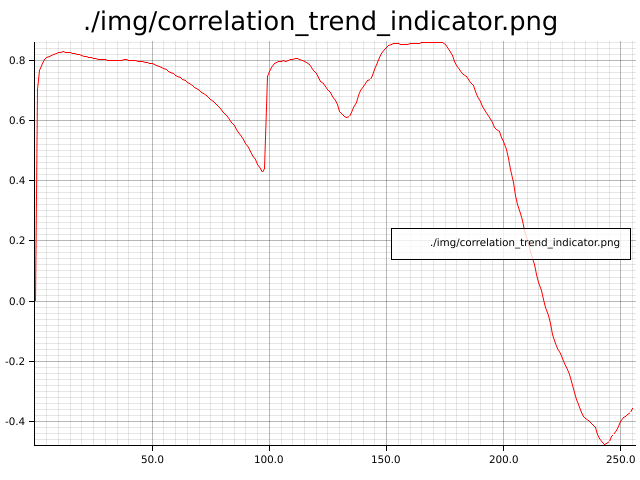
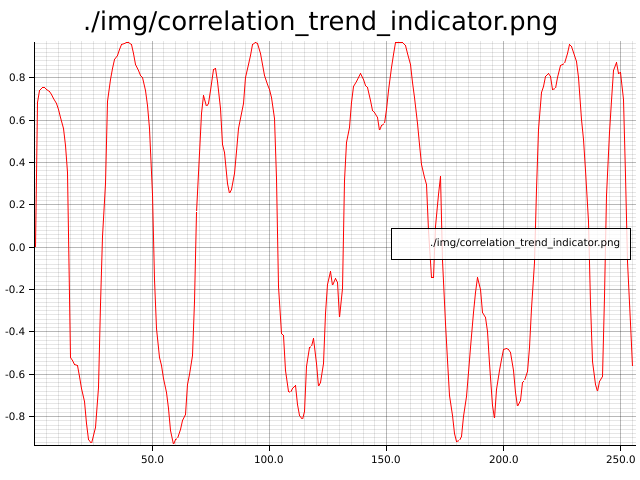
changed default window_len in all test functions to 16 for consistency

Changed region(s): [[0.0, 0.0625, 1.0, 0.9375]]

diff --git a/src/correlation_trend_indicator.rs b/src/correlation_trend_indicator.rs
@@ -86,7 +86,7 @@ mod tests {
 
     #[test]
     fn correlation_trend_indicator_plot() {
-        let mut cti = CorrelationTrendIndicator::new_final(100);
+        let mut cti = CorrelationTrendIndicator::new_final(16);
         let mut outs: Vec<f64> = vec![];
         for v in &TEST_DATA {
             cti.update(*v);

diff --git a/src/vsct.rs b/src/vsct.rs
@@ -53,7 +53,7 @@ mod tests {
 
     #[test]
     fn vsct_plot() {
-        let mut vsct = VSCT::new_final(20);
+        let mut vsct = VSCT::new_final(16);
         let mut out: Vec<f64> = Vec::with_capacity(TEST_DATA.len());
         for v in &TEST_DATA {
             vsct.update(*v);

diff --git a/src/std_dev.rs b/src/std_dev.rs
@@ -76,7 +76,7 @@ mod tests {
 
     #[test]
     fn test_std_dev_plot() {
-        let mut std_dev = StdDev::new_final(64);
+        let mut std_dev = StdDev::new_final(16);
         let mut out: Vec<f64> = Vec::new();
         for v in &TEST_DATA {
             std_dev.update(*v);

diff --git a/src/sma.rs b/src/sma.rs
@@ -72,7 +72,7 @@ mod tests {
 
     #[test]
     fn sma_plot() {
-        let mut sma = SMA::new_final(32);
+        let mut sma = SMA::new_final(16);
         let mut out: Vec<f64> = Vec::new();
         for v in &TEST_DATA {
             sma.update(*v);
